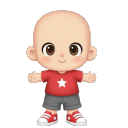
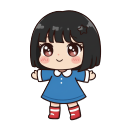
chore(dialog): DialogWindow を全画面表示に変更、speaker_image フォールバック追加

diff --git a/scripts/DialogManager.cs b/scripts/DialogManager.cs
@@ -565,6 +565,75 @@ public partial class DialogManager : Node
             {
                 speakerLabel.Text = (string)nd["speaker"];
                 GD.Print("ShowCurrentNode: speaker set=", speakerLabel.Text);
+                // Try to set a speaker image in the top area if available.
+                try
+                {
+                    var speakerImage = dialogBoxInstance?.GetNodeOrNull<TextureRect>("SpeakerImage");
+                    if (speakerImage == null)
+                        speakerImage = FindNodeByNameSuffix<TextureRect>(dialogBoxInstance, "SpeakerImage");
+                    if (speakerImage != null)
+                    {
+                        // hide by default
+                        try { speakerImage.Visible = false; } catch { }
+                        string imagePath = null;
+                        if (nd.ContainsKey("speaker_image"))
+                        {
+                            imagePath = nd["speaker_image"].ToString();
+                        }
+                        else
+                        {
+                            // simple heuristic: if speaker name mentions 'uichi', show uichi front stand
+                            try
+                            {
+                                var sp = ((string)nd["speaker"]).ToLower();
+                                if (sp.Contains("uichi"))
+                                    imagePath = "res://assets/characters/uichi/uichi-front-stand.png";
+                            }
+                            catch { }
+                        }
+                        // fallback: if no speaker_image provided, try using the NPC id (currentNpcId)
+                        if (string.IsNullOrEmpty(imagePath) && !string.IsNullOrEmpty(currentNpcId))
+                        {
+                            try
+                            {
+                                var candidate = $"res://assets/characters/{currentNpcId}_standing_picture.png";
+                                // only set if file exists
+                                bool exists2 = false;
+                                try { exists2 = FileAccess.FileExists(candidate); } catch { }
+                                GD.Print($"DialogManager: Fallback candidate image='{candidate}' exists={exists2}");
+                                if (exists2)
+                                    imagePath = candidate;
+                            }
+                            catch { }
+                        }
+                        if (!string.IsNullOrEmpty(imagePath))
+                        {
+                            try
+                            {
+                                // diagnostic: check file exists
+                                bool exists = false;
+                                try { exists = FileAccess.FileExists(imagePath); } catch { }
+                                GD.Print($"DialogManager: Speaker image path='{imagePath}' exists={exists}");
+                                var tex = GD.Load<Texture2D>(imagePath);
+                                GD.Print($"DialogManager: Load texture result for '{imagePath}': "+(tex!=null));
+                                if (tex != null)
+                                {
+                                    speakerImage.Texture = tex;
+                                    try { speakerImage.Visible = true; } catch { }
+                                }
+                                else
+                                {
+                                    GD.PrintErr("DialogManager: failed to load texture for speaker image: ", imagePath);
+                                }
+                            }
+                            catch (Exception e)
+                            {
+                                GD.PrintErr("DialogManager: exception loading speaker image: ", e.Message);
+                            }
+                        }
+                    }
+                }
+                catch { }
             }
             if (body != null && nd.ContainsKey("text"))
             {
